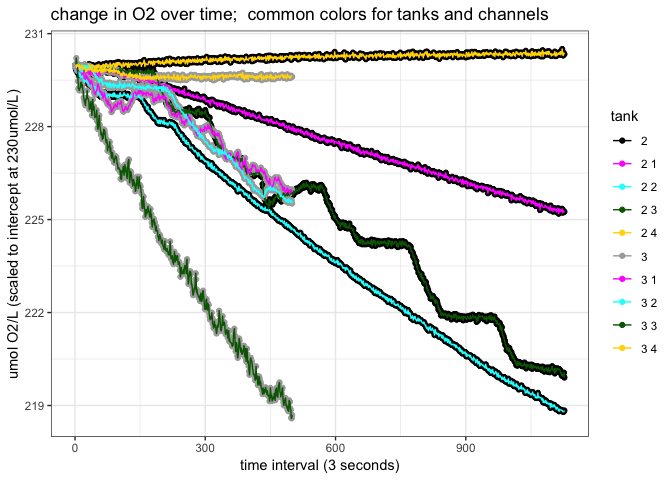
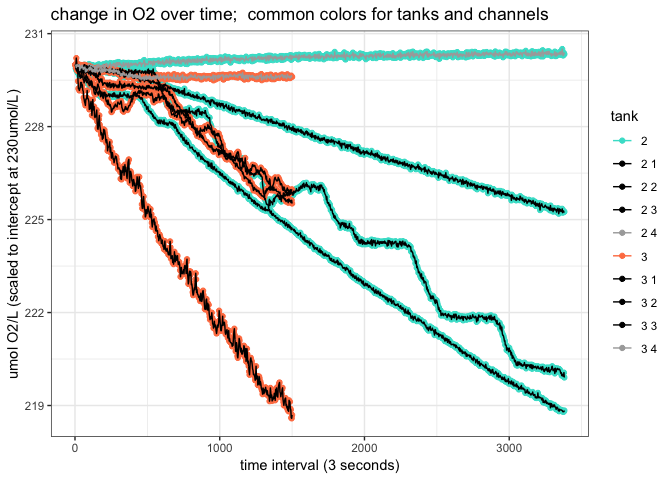
new plots for seconds

diff --git a/Broodstock_Respirometry/analysis/20181203_trial1_tank2and3.md b/Broodstock_Respirometry/analysis/20181203_trial1_tank2and3.md
@@ -48,13 +48,13 @@ Fitting lines and comparing slopes
 
 |  Intercept (umol/L)|  slope (umol^-L/time (3 sec.))| Tank | Channel | Subject | Treatment |
 |-------------------:|------------------------------:|:-----|:--------|:--------|:----------|
-|            230.1187|                     -0.0043576| 2    | 1       | test    | low       |
-|            229.9417|                     -0.0102459| 2    | 2       | test    | low       |
-|            230.7827|                     -0.0096991| 2    | 3       | test    | low       |
-|            230.0067|                      0.0003682| 2    | 4       | control | low       |
-|            229.8767|                     -0.0075344| 3    | 1       | test    | ambient   |
-|            230.4835|                     -0.0097801| 3    | 2       | test    | ambient   |
-|            229.0767|                     -0.0218299| 3    | 3       | test    | ambient   |
-|            229.7751|                     -0.0004727| 3    | 4       | control | ambient   |
+|            230.1187|                     -0.0014525| 2    | 1       | test    | low       |
+|            229.9417|                     -0.0034153| 2    | 2       | test    | low       |
+|            230.7827|                     -0.0032330| 2    | 3       | test    | low       |
+|            230.0067|                      0.0001227| 2    | 4       | control | low       |
+|            229.8767|                     -0.0025115| 3    | 1       | test    | ambient   |
+|            230.4835|                     -0.0032600| 3    | 2       | test    | ambient   |
+|            229.0767|                     -0.0072766| 3    | 3       | test    | ambient   |
+|            229.7751|                     -0.0001576| 3    | 4       | control | ambient   |
 
 ![](20181203_trial1_tank2and3_files/figure-markdown_github/unnamed-chunk-13-1.png)
